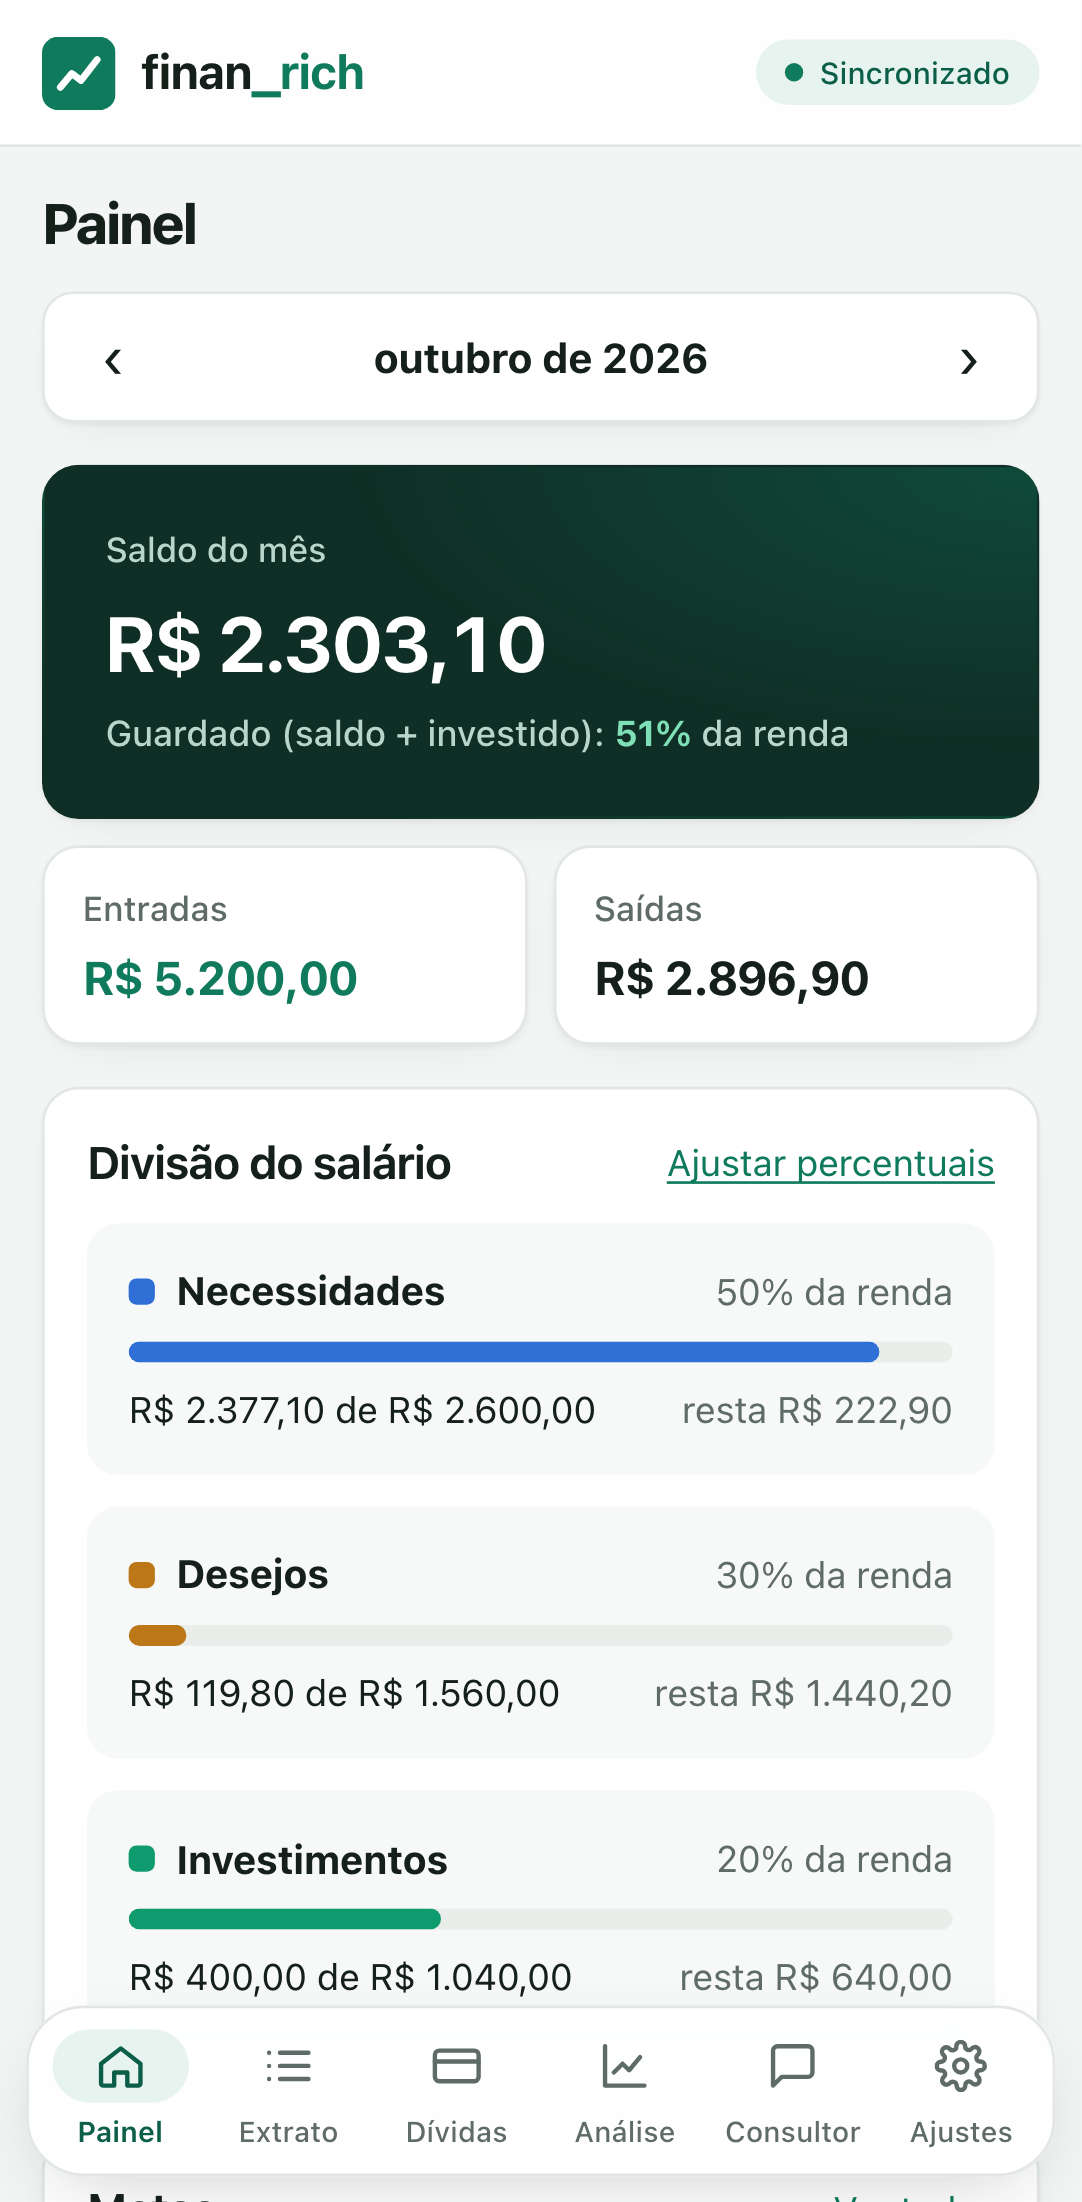
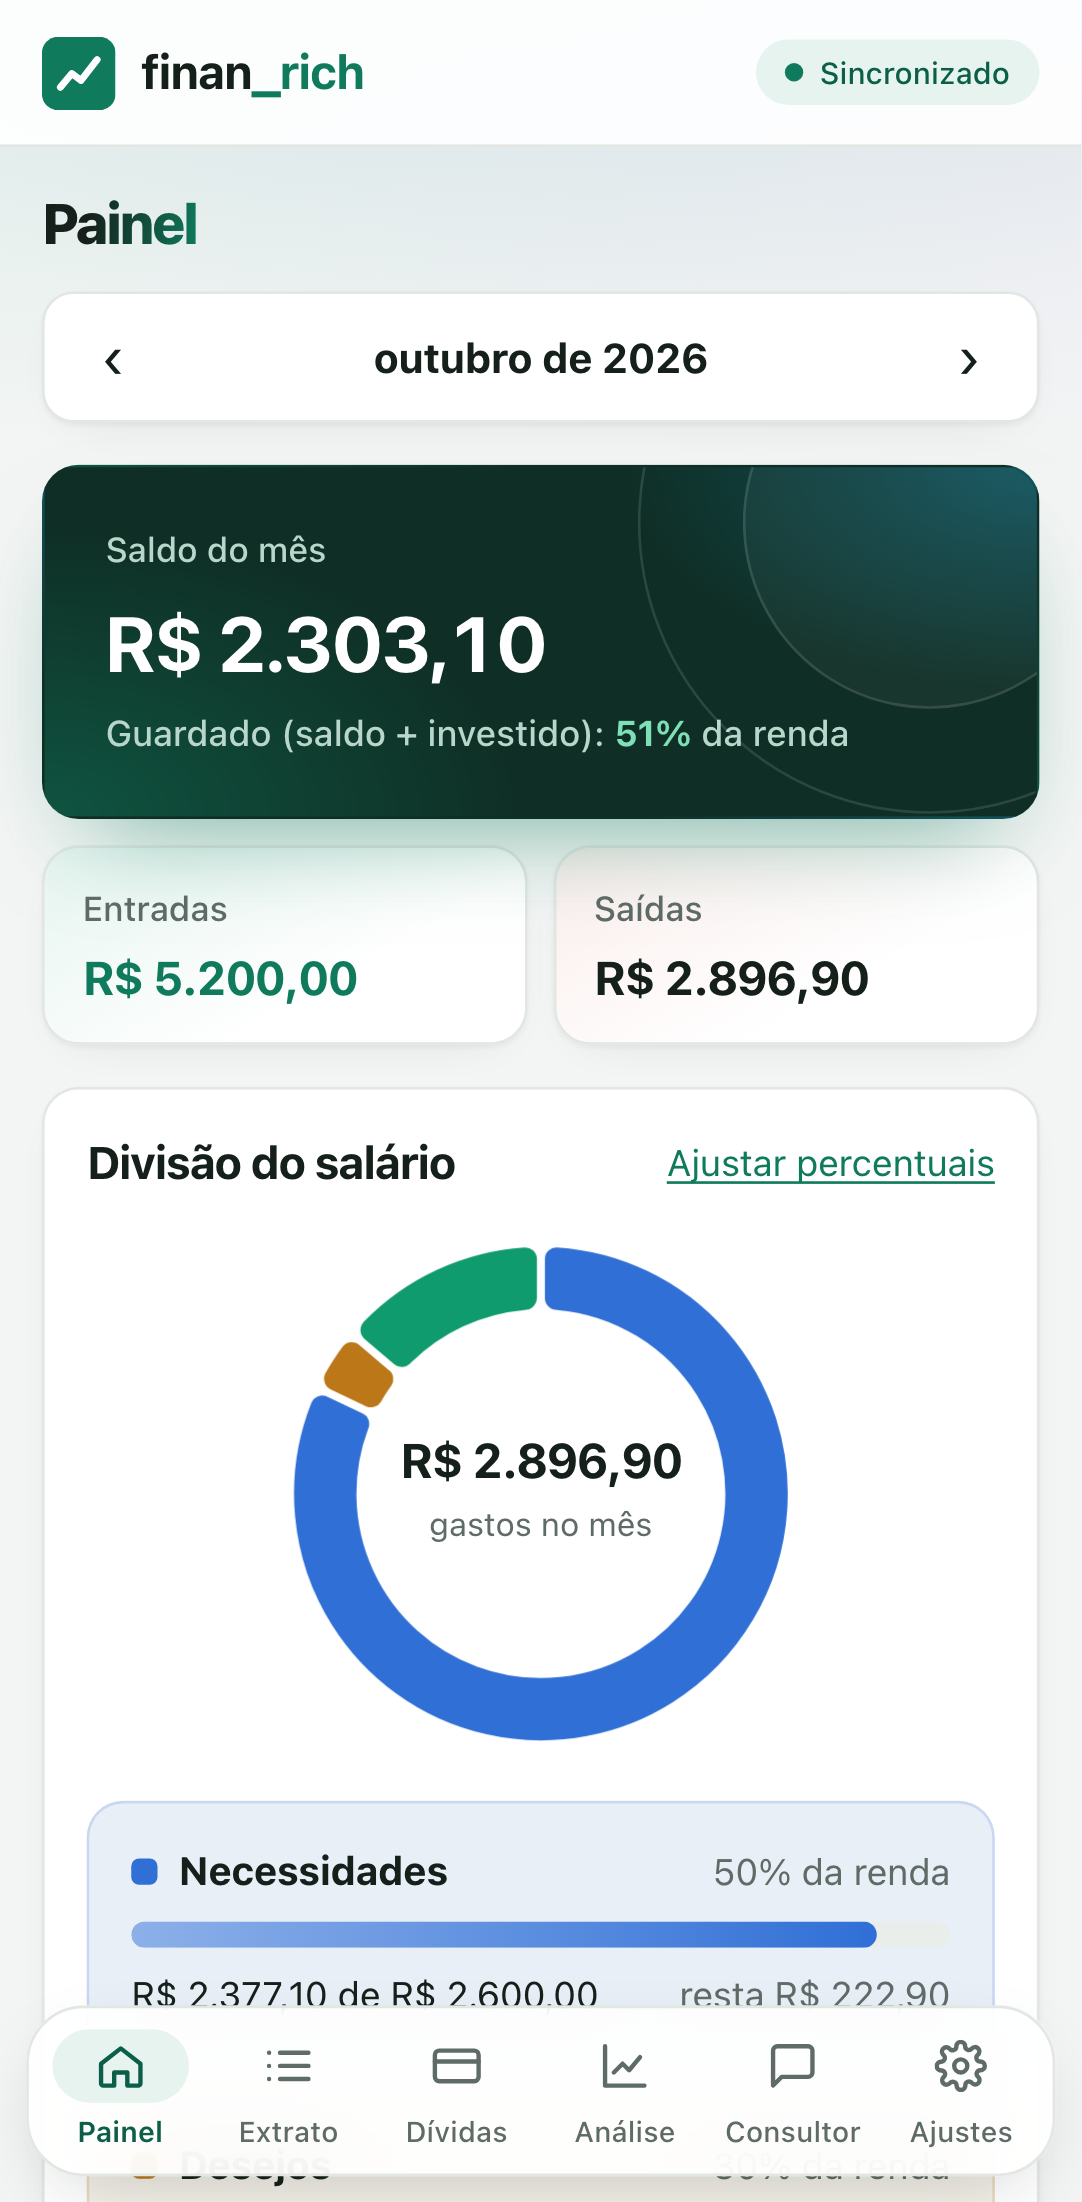
Loja: novidades da 1.10.0 e capturas com o visual novo

diff --git a/README.md b/README.md
@@ -24,6 +24,9 @@ números reais. Seus dados ficam num arquivo no seu PC, sem conta e sem nuvem.
   passado com a projeção de como fecha, quanto ainda dá para gastar por dia, categorias
   contra a sua média, assinaturas com o custo anual e onde dá para economizar
   ([docs/ANALISE.md](docs/ANALISE.md)).
+- **Gráficos** em todas as telas (Chart.js): rosca dos gastos por grupo, ano com entradas,
+  saídas e saldo, ritmo do mês, plano das dívidas e patrimônio. Passe o dedo para ver o valor
+  de cada mês ou dia; cada gráfico também abre em tabela.
 - **Importar extrato** do banco (OFX, CSV ou a fatura do cartão em PDF: Nubank, Itaú, BB,
   Bradesco, Inter, Caixa...):
   sugere a categoria de cada lançamento pelo seu histórico e pela descrição (iFood, Uber,
